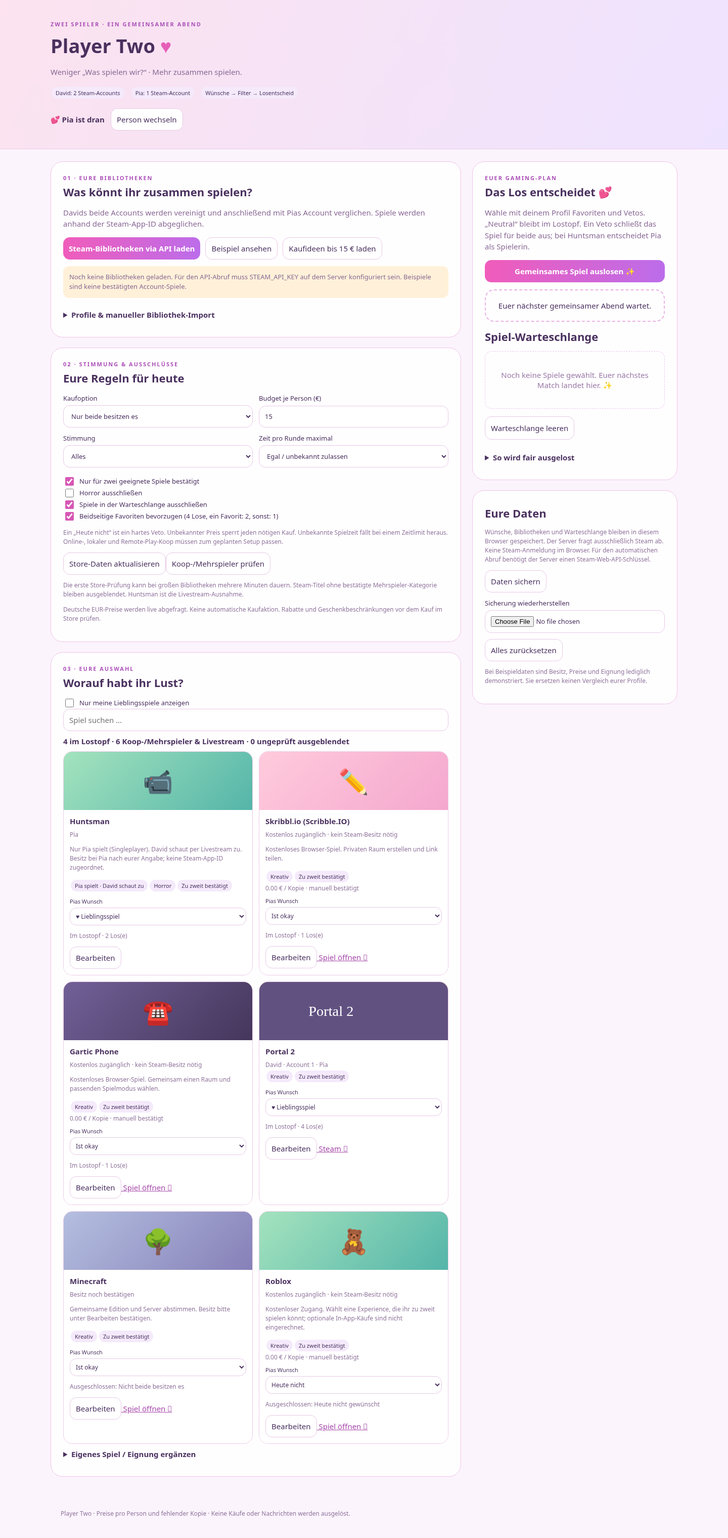
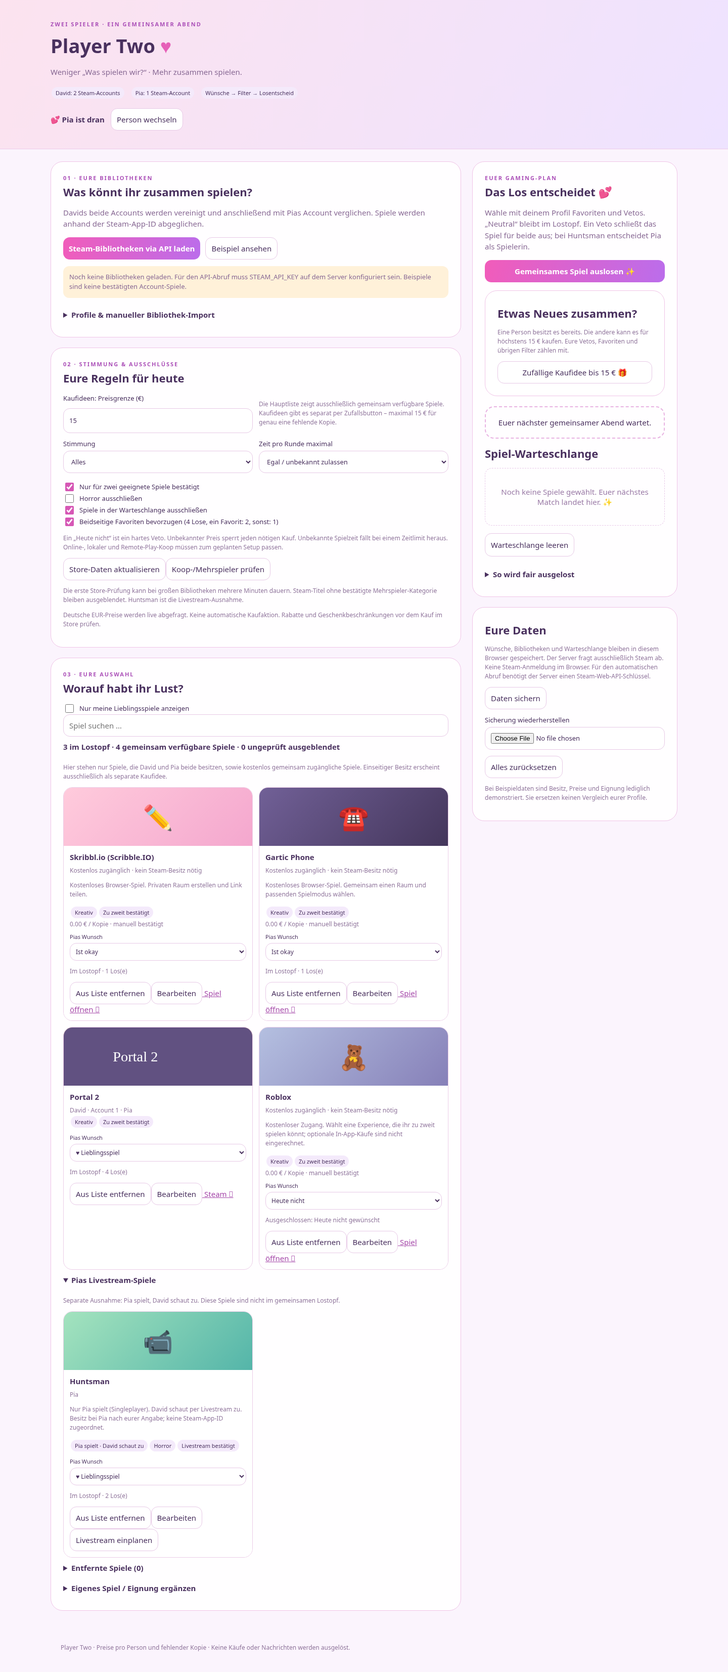
Show only shared games and add separate purchase randomizer capped at 15 EUR

Changed region(s): [[0.0625, 0.0, 0.625, 0.9688], [0.6562, 0.0938, 0.9375, 0.4688]]

diff --git a/steam-match/app.js b/steam-match/app.js
@@ -11,12 +11,12 @@ const extras=[
 ];
 function ensureExtras(){for(const extra of extras)if(!state.games.some(g=>g.id===extra.id))state.games.push({...extra,owners:[...extra.owners],votes:['neutral','neutral'],minutes:null,price:extra.price??null,priceSource:'manual'});}
 ensureExtras();
-function choosePerson(person){activePerson=person;$('activePerson').textContent=person==='pia'?'💕 Pia ist dran':'🎮 David ist dran';$('profileDialog').close();render();checkMultiplayer();}
+function choosePerson(person){activePerson=person;$('purchaseResult').replaceChildren();$('activePerson').textContent=person==='pia'?'💕 Pia ist dran':'🎮 David ist dran';$('profileDialog').close();render();checkMultiplayer();}
 $('choosePia').onclick=()=>choosePerson('pia');$('chooseDavid').onclick=()=>choosePerson('david');$('switchPerson').onclick=()=>$('profileDialog').showModal();
 $('profileDialog').addEventListener('cancel',e=>{if(!activePerson)e.preventDefault();});
 function save(){try{localStorage.setItem(KEY,JSON.stringify(state));}catch{status('Browser-Speicherung nicht verfügbar. Bitte Daten sichern.');}}
 function status(s){$('status').textContent=s;}
-function filters(){return {buy:$('buy').value,budget:Math.max(0,Number($('budget').value)||0),genre:$('genre').value,duration:Number($('duration').value),verified:$('verified').checked,horror:$('horror').checked,queueExclude:$('queueExclude').checked};}
+function filters(){return {buy:'owned',budget:Math.min(15,Math.max(0,Number($('budget').value)||0)),genre:$('genre').value,duration:Number($('duration').value),verified:$('verified').checked,horror:$('horror').checked,queueExclude:$('queueExclude').checked};}
 function node(tag,text,cls){const n=document.createElement(tag);if(text!=null)n.textContent=text;if(cls)n.className=cls;return n;}
 function demo(){state={games:[['413150','Stardew Valley','🌱','Gemütlich',['a','c'],14,60],['1966720','Lethal Company','👻','Horror',['b','c'],10,60],['1426210','It Takes Two','🧸','Action',['a'],40,90],['2881650','Content Warning','📹','Horror',['a','c'],8,45],['1211020','Wobbly Life','🌈','Gemütlich',['b'],15,45],['431960','Wallpaper Engine','🎨','Kreativ',['a','c'],4,15]].map(([id,name,emoji,genre,owners,price,minutes],i)=>({id,name,emoji,genre,owners,price,priceSource:'demo',minutes,confirmed:i!==5,multiplayer:i!==5,votes:['neutral','neutral']})),queue:[],loaded:{},demo:true};winner=null;save();render();status('BEISPIELMODUS · Besitz, Preise und Spielmodi sind keine Ergebnisse eures Profilvergleichs. Steam laden oder eigene Bibliotheken importieren, um echte Daten zu verwenden.');}
 function merge(account,games){if(state.demo){state={games:[],queue:[],loaded:{},demo:false};winner=null;}
@@ -34,26 +34,27 @@ $('import').onclick=()=>{try{merge($('account').value,parseLibrary($('importText
 $('importFile').onchange=async e=>{const file=e.target.files[0];if(file){if(file.size>8000000){status('Datei zu groß (maximal 8 MB).');return;}$('importText').value=await file.text();}};
 const colors=['linear-gradient(135deg,#a4e3be,#54b5a9)','linear-gradient(135deg,#ffcbdc,#f4a7ce)','linear-gradient(135deg,#716097,#44365b)','linear-gradient(135deg,#ffe49c,#ffbd81)','linear-gradient(135deg,#b4bfe0,#8680b8)'];
 function isPlayable(g){return !g.removed&&(g.mode==='stream'||(/^\d+$/.test(g.id)?g.multiplayer===true:g.confirmed===true));}
-function render(){const removed=state.games.filter(g=>g.removed);$('removedCount').textContent=`Entfernte Spiele (${removed.length})`;$('removedGames').replaceChildren();if(!removed.length)$('removedGames').append(node('p','Keine Spiele entfernt.','muted'));for(const g of removed){const row=node('div',null,'queueitem');row.append(node('span',g.name));const restore=node('button','Wiederherstellen');restore.setAttribute('aria-label',g.name+' wiederherstellen');restore.onclick=()=>{delete g.removed;save();render();};row.append(restore);$('removedGames').append(row);}const f=filters(),eligible=state.games.filter(isPlayable).filter(g=>!MatchCore.reasons(g,f,state.queue).length);$('count').textContent=`${eligible.length} im Lostopf · ${state.games.filter(isPlayable).length} Koop-/Mehrspieler & Livestream · ${state.games.filter(g=>!g.removed&&/^\d+$/.test(g.id)&&g.multiplayer==null).length} ungeprüft ausgeblendet`;const container=$('games');container.replaceChildren();const visible=state.games.filter(isPlayable).filter(g=>g.name.toLowerCase().includes($('search').value.toLowerCase())&&(!$('favoritesOnly').checked||g.votes?.[activePerson==='pia'?1:0]==='yes')).sort((a,b)=>Number(!!MatchCore.reasons(a,f,state.queue).length)-Number(!!MatchCore.reasons(b,f,state.queue).length));
+function render(){const removed=state.games.filter(g=>g.removed);$('removedCount').textContent=`Entfernte Spiele (${removed.length})`;$('removedGames').replaceChildren();if(!removed.length)$('removedGames').append(node('p','Keine Spiele entfernt.','muted'));for(const g of removed){const row=node('div',null,'queueitem');row.append(node('span',g.name));const restore=node('button','Wiederherstellen');restore.setAttribute('aria-label',g.name+' wiederherstellen');restore.onclick=()=>{delete g.removed;save();render();};row.append(restore);$('removedGames').append(row);}const f=filters(),eligible=state.games.filter(isPlayable).filter(MatchCore.jointlyOwned).filter(g=>g.mode!=='stream').filter(g=>!MatchCore.reasons(g,f,state.queue).length);$('count').textContent=`${eligible.length} im Lostopf · ${state.games.filter(isPlayable).filter(MatchCore.jointlyOwned).filter(g=>g.mode!=='stream').length} gemeinsam verfügbare Spiele · ${state.games.filter(g=>!g.removed&&/^\d+$/.test(g.id)&&g.multiplayer==null).length} ungeprüft ausgeblendet`;const container=$('games');container.replaceChildren();$('streamGames').replaceChildren();const visible=state.games.filter(isPlayable).filter(g=>g.mode==='stream'||MatchCore.jointlyOwned(g)).filter(g=>g.name.toLowerCase().includes($('search').value.toLowerCase())&&(!$('favoritesOnly').checked||g.votes?.[activePerson==='pia'?1:0]==='yes')).sort((a,b)=>Number(!!MatchCore.reasons(a,f,state.queue).length)-Number(!!MatchCore.reasons(b,f,state.queue).length));
 for(const [i,g]of visible.entries()){const reasons=MatchCore.reasons(g,f,state.queue),card=node('article',null,'card'),art=node('div',null,'art');art.append(node('span',g.emoji||'🎮','fallback'));art.style.setProperty('--art',colors[i%colors.length]);if(!state.demo&&/^\d+$/.test(g.id)){const img=new Image();img.src=`https://shared.fastly.steamstatic.com/store_item_assets/steam/apps/${g.id}/header.jpg`;img.alt='';img.loading='lazy';img.onerror=()=>img.remove();art.append(img);}card.append(art);const c=node('div',null,'content');c.append(node('h3',g.name));const ownerNames={a:'David · Account 1',b:'David · Account 2',c:'Pia'};c.append(node('div',g.access==='free'?'Kostenlos zugänglich · kein Steam-Besitz nötig':g.owners.length?g.owners.map(x=>ownerNames[x]).join(' · '):'Besitz noch bestätigen','muted'));if(g.note)c.append(node('p',g.note,'muted'));if(g.mode==='stream')c.append(node('span','Pia spielt · David schaut zu','badge'));c.append(node('span',g.genre||'Unbekannt','badge'));c.append(node('span',g.mode==='stream'?'Livestream bestätigt':g.confirmed?'Zu zweit bestätigt':'Eignung offen','badge'));if(g.price!=null)c.append(node('div',`${g.price.toFixed(2)} € / Kopie · ${g.priceSource==='demo'?'Beispielpreis':g.priceSource==='steam'?'Steam '+new Date(g.priceAt).toLocaleDateString('de-DE'):'manuell bestätigt'}`,'muted'));if(g.categories?.length)c.append(node('p','Store: '+g.categories.join(', '),'muted'));
 const votes=node('div',null,'votes');const index=activePerson==='pia'?1:0;
 if(g.mode==='stream'&&activePerson!=='pia'){votes.append(node('p','Pia wählt dieses Spiel. Du schaust per Livestream zu.','muted'));}
 else {const label=node('label',activePerson==='pia'?'Pias Wunsch':'Davids Wunsch'),select=node('select');select.setAttribute('aria-label',(activePerson==='pia'?'Pia':'David')+' · '+g.name);for(const [value,text]of [['neutral','Ist okay'],['yes','♥ Lieblingsspiel'],['no','Heute nicht']]){const o=node('option',text);o.value=value;select.append(o);}select.value=g.votes?.[index]||'neutral';select.disabled=!activePerson;select.onchange=()=>{g.votes??=['neutral','neutral'];g.votes[index]=select.value;save();render();};label.append(select);votes.append(label);}
 c.append(votes);c.append(node('p',reasons.length?'Ausgeschlossen: '+reasons.join(' · '):`Im Lostopf · ${MatchCore.weight(g,$('weight').checked)} Los(e)`,'muted'));
-const remove=node('button','Aus Liste entfernen');remove.setAttribute('aria-label',g.name+' aus Liste entfernen');remove.onclick=()=>{g.removed=true;state.queue=state.queue.filter(q=>q.id!==g.id);if(winner?.id===g.id){winner=null;$('winner').textContent='Spiel entfernt. Ihr könnt neu auslosen.';}if($('newName').dataset.edit===g.id){delete $('newName').dataset.edit;$('newName').value='';$('newId').value='';}save();render();};c.append(remove);const edit=node('button','Bearbeiten');edit.onclick=()=>{$('newName').value=g.name;$('newId').value=/^\d+$/.test(g.id)?g.id:'';$('newGenre').value=['Gemütlich','Horror','Action','Kreativ'].includes(g.genre)?g.genre:'Gemütlich';$('newTime').value=g.minutes??'';$('newPrice').value=g.priceSource==='demo'?'':g.price??'';$('ownA').checked=g.owners.includes('a');$('ownB').checked=g.owners.includes('b');$('ownC').checked=g.owners.includes('c');$('newCoop').checked=g.confirmed;$('newName').closest('details').open=true;$('newName').dataset.edit=g.id;$('newName').scrollIntoView({behavior:'smooth',block:'center'});};c.append(edit);if(g.url){const link=node('a',' Spiel öffnen ↗');link.href=g.url;link.target='_blank';link.rel='noreferrer';c.append(link);}if(/^\d+$/.test(g.id)){const a=node('a',' Steam ↗');a.href='https://store.steampowered.com/app/'+g.id+'/';a.target='_blank';a.rel='noreferrer';c.append(a);}card.append(c);container.append(card);}
+const remove=node('button','Aus Liste entfernen');remove.setAttribute('aria-label',g.name+' aus Liste entfernen');remove.onclick=()=>{g.removed=true;state.queue=state.queue.filter(q=>q.id!==g.id);if(winner?.id===g.id){winner=null;$('winner').textContent='Spiel entfernt. Ihr könnt neu auslosen.';}if($('newName').dataset.edit===g.id){delete $('newName').dataset.edit;$('newName').value='';$('newId').value='';}save();render();};c.append(remove);const edit=node('button','Bearbeiten');edit.onclick=()=>{$('newName').value=g.name;$('newId').value=/^\d+$/.test(g.id)?g.id:'';$('newGenre').value=['Gemütlich','Horror','Action','Kreativ'].includes(g.genre)?g.genre:'Gemütlich';$('newTime').value=g.minutes??'';$('newPrice').value=g.priceSource==='demo'?'':g.price??'';$('ownA').checked=g.owners.includes('a');$('ownB').checked=g.owners.includes('b');$('ownC').checked=g.owners.includes('c');$('newCoop').checked=g.confirmed;$('newName').closest('details').open=true;$('newName').dataset.edit=g.id;$('newName').scrollIntoView({behavior:'smooth',block:'center'});};c.append(edit);if(g.url){const link=node('a',' Spiel öffnen ↗');link.href=g.url;link.target='_blank';link.rel='noreferrer';c.append(link);}if(/^\d+$/.test(g.id)){const a=node('a',' Steam ↗');a.href='https://store.steampowered.com/app/'+g.id+'/';a.target='_blank';a.rel='noreferrer';c.append(a);}if(g.mode==='stream'&&activePerson==='pia'){const plan=node('button','Livestream einplanen');plan.disabled=!!reasons.length;plan.onclick=()=>{if(!state.queue.some(q=>q.id===g.id)){state.queue.push({id:g.id,name:g.name+' · Pia streamt'});save();render();}};c.append(plan);}card.append(c);(g.mode==='stream'?$('streamGames'):container).append(card);}
 if(!visible.length)container.append(node('p','Noch keine passenden Einträge. Bibliotheken laden, importieren oder ein Spiel ergänzen.'));$('draw').disabled=!eligible.length;const q=$('queue');q.replaceChildren();if(!state.queue.length)q.append(node('div','Noch keine Spiele gewählt. Euer nächstes Match landet hier. ✨','empty'));state.queue.forEach((g,i)=>{const row=node('div',null,'queueitem');row.append(node('span',`${i+1}. ${g.name}`));const b=node('button','×');b.setAttribute('aria-label',g.name+' aus Warteschlange entfernen');b.onclick=()=>{state.queue.splice(i,1);save();render();};row.append(b);q.append(row);});}
-$('draw').onclick=()=>{const f=filters(),pool=state.games.filter(isPlayable).filter(g=>!MatchCore.reasons(g,f,state.queue).length);winner=MatchCore.pick(pool,$('weight').checked,MatchCore.randomInt);const box=$('winner');box.replaceChildren();if(!winner){box.textContent='Kein Spiel erfüllt eure Regeln. Prüft die Ausschlussgründe.';return;}box.append(node('span',state.demo?'BEISPIELAUSLOSUNG':'Euer nächstes Spiel'),node('strong',winner.name));const b=node('button','In die Warteschlange ♥','primary');b.onclick=()=>{if(!state.queue.some(g=>g.id===winner.id)){state.queue.push({id:winner.id,name:winner.name});save();render();}b.disabled=true;};box.append(b);};
+$('draw').onclick=()=>{const f=filters(),pool=state.games.filter(isPlayable).filter(MatchCore.jointlyOwned).filter(g=>g.mode!=='stream').filter(g=>!MatchCore.reasons(g,f,state.queue).length);winner=MatchCore.pick(pool,$('weight').checked,MatchCore.randomInt);const box=$('winner');box.replaceChildren();if(!winner){box.textContent='Kein Spiel erfüllt eure Regeln. Prüft die Ausschlussgründe.';return;}box.append(node('span',state.demo?'BEISPIELAUSLOSUNG':'Euer nächstes Spiel'),node('strong',winner.name));const b=node('button','In die Warteschlange ♥','primary');b.onclick=()=>{if(!state.queue.some(g=>g.id===winner.id)){state.queue.push({id:winner.id,name:winner.name});save();render();}b.disabled=true;};box.append(b);};
 $('add').onclick=()=>{const name=$('newName').value.trim(),raw=$('newId').value.trim();if(!name||raw&&!/^\d{1,10}$/.test(raw)){status('Name und gegebenenfalls gültige numerische Steam-App-ID eingeben.');return;}const minutes=$('newTime').value===''?null:Number($('newTime').value),price=$('newPrice').value===''?null:Number($('newPrice').value);if(minutes!==null&&(!Number.isFinite(minutes)||minutes<1)||price!==null&&(!Number.isFinite(price)||price<0)){status('Bitte gültige Zeit und Preis eingeben.');return;}const id=raw||$('newName').dataset.edit||'custom-'+crypto.randomUUID(),old=state.games.find(g=>g.id===id),g={...old,id,name,genre:$('newGenre').value,minutes,price,priceSource:'manual',confirmed:$('newCoop').checked,removed:false,owners:['a','b','c'].filter((_,i)=>$(['ownA','ownB','ownC'][i]).checked),votes:old?.votes||['neutral','neutral']};if(old)Object.assign(old,g);else state.games.push(g);delete $('newName').dataset.edit;$('newName').value='';$('newId').value='';save();render();status(state.demo?'Beispielmodus bleibt aktiv. Echte Bibliotheken importieren für einen echten Accountvergleich.':'Spiel gespeichert. Besitz, Eignung und Preis stammen aus eurer manuellen Angabe.');};
 $('prices').onclick=async()=>{if(state.demo){status('Store-Abgleich im Beispielmodus deaktiviert. Zuerst echte Bibliotheken importieren.');return;}const games=state.games.filter(g=>!g.removed&&/^\d+$/.test(g.id));if(!games.length){status('Keine Steam-App-IDs vorhanden.');return;}$('prices').disabled=true;let ok=0,failed=0;for(const g of games){try{const d=await api('/api/details?id='+g.id);g.price=d.price;g.priceSource='steam';g.priceAt=Date.now();g.categories=d.categories;g.multiplayer=d.multiplayer;ok++;}catch{failed++;}status(`Store-Abgleich: ${ok} erfolgreich, ${failed} fehlgeschlagen. Eignung bitte manuell anhand des konkreten Spielmodus bestätigen.`);save();render();await new Promise(r=>setTimeout(r,300));}$('prices').disabled=false;};
-for(const id of ['buy','budget','genre','duration','verified','horror','queueExclude','weight','search','favoritesOnly'])$(id).addEventListener('input',render);
+for(const id of ['budget','genre','duration','verified','horror','queueExclude','weight','search','favoritesOnly'])$(id).addEventListener('input',render);
 $('clearQueue').onclick=()=>{state.queue=[];save();render();};$('reset').onclick=()=>{if(confirm('Alle lokalen Bibliotheken, Wünsche und Warteschlange löschen?')){localStorage.removeItem(KEY);location.reload();}};
 $('export').onclick=()=>{const url=URL.createObjectURL(new Blob([JSON.stringify(state,null,2)],{type:'application/json'})),a=node('a');a.href=url;a.download='player-two-backup.json';a.click();setTimeout(()=>URL.revokeObjectURL(url),1000);};
 save();render();$('profileDialog').showModal();if(state.demo)status('BEISPIELMODUS · Kein bestätigter Vergleich eurer Steam-Accounts.');else if(Object.keys(state.loaded).length)summary();
 
 $('restore').onchange=async e=>{try{const f=e.target.files[0];if(!f)return;if(f.size>8000000)throw Error('Datei zu groß');const s=JSON.parse(await f.text());if(!Array.isArray(s.games)||!Array.isArray(s.queue)||!s.loaded||typeof s.loaded!=='object'||s.games.some(g=>typeof g.id!=='string'||typeof g.name!=='string'||(g.removed!==undefined&&typeof g.removed!=='boolean')||!Array.isArray(g.owners)||g.owners.some(o=>!['a','b','c'].includes(o))||!Array.isArray(g.votes)||g.votes.some(v=>!['neutral','yes','no'].includes(v))||g.price!=null&&(!Number.isFinite(g.price)||g.price<0))||s.queue.some(g=>typeof g.id!=='string'||typeof g.name!=='string'))throw Error('Ungültige Sicherung');if(!confirm('Aktuelle Daten durch diese Sicherung ersetzen?'))return;state=s;ensureExtras();winner=null;$('winner').textContent='Sicherung geladen. Neu auslosen, wenn ihr bereit seid.';save();render();if(state.demo)status('BEISPIELMODUS · Sicherung wiederhergestellt.');else summary();}catch(e){status('Wiederherstellen fehlgeschlagen: '+e.message);}};
 
-$('suggestions').onclick=async()=>{try{if(state.demo){status('Zuerst Beispielmodus über „Alles zurücksetzen“ verlassen oder eine echte Bibliothek importieren.');return;}const r=await fetch('suggestions.json');if(!r.ok)throw Error('Vorschläge nicht verfügbar');const suggestions=await r.json();for(const d of suggestions){if(state.games.some(g=>g.id===d.id))continue;state.games.push({id:d.id,name:d.name,genre:d.genre,minutes:null,owners:[],votes:['neutral','neutral'],confirmed:false,price:d.price,priceSource:'steam',priceAt:d.checkedAt,multiplayer:undefined,categories:d.categories.filter(c=>/Koop|Mehrspieler|Geteilter Bildschirm|Remote Play Together/.test(c))});}save();render();status('Echte Store-Kaufideen hinzugefügt (Preisstand siehe Karten). Besitz unbekannt; nicht als gemeinsame Bibliothek bestätigt. Für die Auslosung Kaufoption „Auch für beide neu kaufen“ wählen und Eignung für euren Spielmodus unter „Bearbeiten“ bestätigen. Zeiten sind unbekannt. Preise älter als 24 Stunden bitte aktualisieren.');}catch(e){status(e.message);}};
 
 let checkingModes=false;
 async function checkMultiplayer(){if(checkingModes||state.demo)return;const pending=state.games.filter(g=>!g.removed&&/^\d+$/.test(g.id)&&g.multiplayer==null);if(!pending.length)return;checkingModes=true;$('checkModes').disabled=true;let done=0,failed=0;for(const g of pending){try{const d=await api('/api/details?id='+g.id);g.multiplayer=d.multiplayer===true;g.categories=d.categories;g.price=d.price;g.priceSource='steam';g.priceAt=Date.now();}catch{failed++;}done++;save();$('modeStatus').textContent=`Mehrspieler-Prüfung: ${done}/${pending.length} · ${failed} nicht prüfbar. Ungeprüfte und reine Singleplayer bleiben ausgeblendet.`;if(done%10===0||done===pending.length){save();render();}await new Promise(r=>setTimeout(r,1600));}checkingModes=false;$('checkModes').disabled=false;}
 $('checkModes').onclick=checkMultiplayer;
+
+$('drawPurchase').onclick=async()=>{const button=$('drawPurchase'),box=$('purchaseResult');button.disabled=true;box.replaceChildren(node('p','Passende Kaufidee und aktuellen Preis prüfen …','muted'));try{const f=filters();let pool=state.games.filter(isPlayable).filter(g=>!MatchCore.purchaseReasons(g,f,state.queue).length);let selected=null;while(pool.length){const g=MatchCore.pick(pool,$('weight').checked,MatchCore.randomInt);pool=pool.filter(x=>x.id!==g.id);if(/^\d+$/.test(g.id)){try{const d=await api('/api/details?id='+g.id);g.price=d.price;g.priceSource='steam';g.priceAt=Date.now();g.multiplayer=d.multiplayer===true;g.categories=d.categories;}catch{continue;}}if(!MatchCore.purchaseReasons(g,filters(),state.queue).length){selected=g;break;}}save();render();box.replaceChildren();if(!selected){box.append(node('p','Keine passende Kaufidee gefunden. Nötig: genau eine Person besitzt das Spiel, bestätigter Mehrspielermodus, Preis bis zur Grenze, keine Vetos. Ungeprüfte Spiele oder unbekannte Preise zuerst über die Store-Prüfung aktualisieren.','muted'));return;}const g=selected,buyer=g.owners.includes('c')?'David':'Pia';box.append(node('h3',g.name),node('p',`${buyer} fehlt die Kopie · ${g.price.toFixed(2)} €`),node('p',`Pias Wunsch: ${g.votes?.[1]==='yes'?'Lieblingsspiel':'Ist okay'} · Davids Wunsch: ${g.votes?.[0]==='yes'?'Lieblingsspiel':'Ist okay'}`,'muted'));if(/^\d+$/.test(g.id)){const link=node('a','Im Steam-Store ansehen ↗');link.href='https://store.steampowered.com/app/'+g.id+'/';link.target='_blank';link.rel='noreferrer';box.append(link);}const wishes=node('label',activePerson==='pia'?'Pias Wunsch zu dieser Kaufidee':'Davids Wunsch zu dieser Kaufidee'),select=node('select');for(const [v,t]of [['neutral','Ist okay'],['yes','♥ Lieblingsspiel'],['no','Heute nicht']]){const o=node('option',t);o.value=v;select.append(o);}const index=activePerson==='pia'?1:0;select.value=g.votes?.[index]||'neutral';select.onchange=()=>{g.votes??=['neutral','neutral'];g.votes[index]=select.value;save();render();};wishes.append(select);box.append(wishes);const remove=node('button','Kaufidee aus Liste entfernen');remove.onclick=()=>{g.removed=true;save();render();box.replaceChildren(node('p','Kaufidee entfernt.','muted'));};box.append(remove);box.append(node('p',g.confirmed?'Zwei-Personen-Eignung wurde von euch bestätigt.':'Store bestätigt Mehrspieler. Mindestspielerzahl, Spielmodus und Plattformen bitte vor dem Kauf prüfen.','muted'));box.append(node('p','Separate Kaufidee: Das Spiel wird erst nach bestätigtem Besitz bei beiden in die Hauptliste aufgenommen.','muted'));}finally{button.disabled=false;}};

diff --git a/steam-match/index.html b/steam-match/index.html
@@ -5,8 +5,8 @@
 .art{overflow:hidden;isolation:isolate}.art img{position:absolute;inset:0;display:block;width:100%;height:100%;object-fit:cover;z-index:1}.art .fallback{position:absolute;inset:0;display:grid;place-items:center}.card{min-width:0}.content{position:relative;background:white}.votes{grid-template-columns:1fr}.identity{display:flex;gap:12px;align-items:center;flex-wrap:wrap;margin-top:16px}.profile-dialog{border:1px solid #edc3e5;border-radius:24px;padding:32px;max-width:480px;width:calc(100% - 32px);color:#49305e}.profile-dialog::backdrop{background:#37214399;backdrop-filter:blur(6px)}.profile-dialog button{flex:1}.profile-dialog h2{font-size:28px}.profile-dialog p{line-height:1.6}
 </style>
 <header><small>Zwei Spieler · Ein gemeinsamer Abend</small><h1>Player Two <span style="color:#e660b8">♥</span></h1><p>Weniger „Was spielen wir?“ · Mehr zusammen spielen.</p><div class="row"><span class="badge">David: 2 Steam-Accounts</span><span class="badge">Pia: 1 Steam-Account</span><span class="badge">Wünsche → Filter → Losentscheid</span></div><div class="identity"><strong id="activePerson">Profil auswählen</strong><button id="switchPerson">Person wechseln</button></div></header>
-<dialog id="profileDialog" class="profile-dialog" aria-labelledby="profileTitle"><div class="eyebrow">Euer Spieleabend</div><h2 id="profileTitle">Wer ist gerade da?</h2><p>Wähle dein Profil, um deine Lieblingsspiele und deine Wünsche für heute festzulegen.</p><div class="row"><button class="primary" id="choosePia">Ich bin Pia 💕</button><button class="primary" id="chooseDavid">Ich bin David 🎮</button></div><p class="muted">Die Auswahl gilt für diesen Seitenaufruf. Favoriten bleiben getrennt nach Person in diesem Browser gespeichert.</p></dialog><main><section><div class="panel"><div class="eyebrow">01 · Eure Bibliotheken</div><h2>Was könnt ihr zusammen spielen?</h2><p>Davids beide Accounts werden vereinigt und anschließend mit Pias Account verglichen. Spiele werden anhand der Steam-App-ID abgeglichen.</p><div class="row"><button class="primary" id="sync">Steam-Bibliotheken via API laden</button><button id="demo">Beispiel ansehen</button><button id="suggestions">Kaufideen bis 15 € laden</button></div><p id="status" role="status" class="notice">Noch keine Bibliotheken geladen. Für den API-Abruf muss STEAM_API_KEY auf dem Server konfiguriert sein. Beispiele sind keine bestätigten Account-Spiele.</p><details><summary>Profile & manueller Bibliothek-Import</summary><p class="muted">Steam: Profil → Profil bearbeiten → Privatsphäre → Profil und Spieldetails öffentlich. Alternativ je Account Steam-XML, JSON (Steam-API-Antwort oder Liste mit appid/name) oder Zeilen im Format App-ID;Spielname importieren. Dateien bleiben lokal im Browser.</p><label>Account<select id="account"><option value="a">David · OneMenShot1 (76561198925829155)</option><option value="b">David · 18945315 (76561198078956373)</option><option value="c">Pia · 76561198350287430</option></select></label><p class="row"><a href="https://steamcommunity.com/id/OneMenShot1/games/?tab=all" target="_blank" rel="noreferrer">Davids Profil 1 ↗</a><a href="https://steamcommunity.com/id/18945315/games/?tab=all" target="_blank" rel="noreferrer">Davids Profil 2 ↗</a><a href="https://steamcommunity.com/profiles/76561198350287430/games/?tab=all" target="_blank" rel="noreferrer">Pias Profil ↗</a></p><textarea id="importText" placeholder="413150;Stardew Valley&#10;1966720;Lethal Company"></textarea><div class="row"><input type="file" id="importFile" accept=".json,.xml,.csv,.txt"><button id="import">Importieren</button></div></details></div>
-<div class="panel"><div class="eyebrow">02 · Stimmung & Ausschlüsse</div><h2>Eure Regeln für heute</h2><div class="filters"><label>Kaufoption<select id="buy"><option value="owned">Nur beide besitzen es</option><option value="one">Ein fehlendes Exemplar zukaufen</option><option value="both">Auch für beide neu kaufen</option></select></label><label>Budget je Person (€)<input id="budget" type="number" min="0" max="100" value="15" step="0.5"></label><label>Stimmung<select id="genre"><option value="all">Alles</option><option>Gemütlich</option><option>Horror</option><option>Action</option><option>Kreativ</option></select></label><label>Zeit pro Runde maximal<select id="duration"><option value="999">Egal / unbekannt zulassen</option><option value="30">30 Minuten</option><option value="60">60 Minuten</option><option value="120">120 Minuten</option></select></label></div><label class="check"><input type="checkbox" id="verified" checked>Nur für zwei geeignete Spiele bestätigt</label><label class="check"><input type="checkbox" id="horror">Horror ausschließen</label><label class="check"><input type="checkbox" id="queueExclude" checked>Spiele in der Warteschlange ausschließen</label><label class="check"><input type="checkbox" id="weight" checked>Beidseitige Favoriten bevorzugen (4 Lose, ein Favorit: 2, sonst: 1)</label><p class="muted">Ein „Heute nicht“ ist ein hartes Veto. Unbekannter Preis sperrt jeden nötigen Kauf. Unbekannte Spielzeit fällt bei einem Zeitlimit heraus. Online-, lokaler und Remote-Play-Koop müssen zum geplanten Setup passen.</p><button id="prices">Store-Daten aktualisieren</button><button id="checkModes">Koop-/Mehrspieler prüfen</button><p id="modeStatus" class="muted" role="status">Die erste Store-Prüfung kann bei großen Bibliotheken mehrere Minuten dauern. Steam-Titel ohne bestätigte Mehrspieler-Kategorie bleiben ausgeblendet. Huntsman ist die Livestream-Ausnahme.</p><p class="muted">Deutsche EUR-Preise werden live abgefragt. Keine automatische Kaufaktion. Rabatte und Geschenkbeschränkungen vor dem Kauf im Store prüfen.</p></div>
-<div class="panel"><div class="eyebrow">03 · Eure Auswahl</div><h2>Worauf habt ihr Lust?</h2><label class="check"><input type="checkbox" id="favoritesOnly">Nur meine Lieblingsspiele anzeigen</label><input class="wide" id="search" placeholder="Spiel suchen …" aria-label="Spiel suchen"><div class="result-count" id="count"></div><div class="grid" id="games"></div><details><summary id="removedCount">Entfernte Spiele (0)</summary><p class="muted">Für beide Profile in diesem Browser entfernt, auch nach erneutem Steam-Import. Die Spiele bleiben in eurer Steam-Bibliothek. Hier könnt ihr sie zurückholen.</p><div id="removedGames"></div></details><details><summary>Eigenes Spiel / Eignung ergänzen</summary><p class="muted">Besitz nur markieren, wenn bestätigt. „Zu zweit geeignet“ ist eure manuelle Bestätigung für euren Spielmodus. Store-Koop-Tags allein bestätigen das nicht.</p><div class="filters"><label>Name<input id="newName" placeholder="z. B. It Takes Two"></label><label>Steam-App-ID (optional)<input id="newId" inputmode="numeric"></label><label>Stimmung<select id="newGenre"><option>Gemütlich</option><option>Horror</option><option>Action</option><option>Kreativ</option></select></label><label>Minuten pro Runde<input id="newTime" type="number" min="1" placeholder="Unbekannt"></label><label>EUR pro fehlender Kopie<input id="newPrice" type="number" min="0" step="0.01" placeholder="Unbekannt"></label></div><div class="row"><label class="check"><input id="ownA" type="checkbox">Dein Account 1</label><label class="check"><input id="ownB" type="checkbox">Dein Account 2</label><label class="check"><input id="ownC" type="checkbox">Ihr Account</label><label class="check"><input id="newCoop" type="checkbox">Zu zweit geeignet</label></div><p><button id="add">Hinzufügen / vorhandene App-ID ergänzen</button></p></details></div></section>
-<aside><div class="panel"><div class="eyebrow">Euer Gaming-Plan</div><h2>Das Los entscheidet 💕</h2><p>Wähle mit deinem Profil Favoriten und Vetos. „Neutral“ bleibt im Lostopf. Ein Veto schließt das Spiel für beide aus; bei Huntsman entscheidet Pia als Spielerin.</p><button class="primary wide" id="draw">Gemeinsames Spiel auslosen ✨</button><div id="winner" aria-live="polite">Euer nächster gemeinsamer Abend wartet.</div><h2>Spiel-Warteschlange</h2><div id="queue"></div><p><button id="clearQueue">Warteschlange leeren</button></p><details><summary>So wird fair ausgelost</summary><p class="muted">Zuerst greifen Besitz, Budget, Eignung, Zeit, Stimmung, Warteschlange und beide Vetos. Nur zulässige Spiele erhalten Lose. Aus diesen wird kryptografisch zufällig gewählt; Favoriten erhöhen auf Wunsch das Gewicht. Die Vorschau zeigt alle Ausschlussgründe. Es gibt keinen garantierten Gewinner, wenn kein Spiel passt.</p></details></div><div class="panel"><h2>Eure Daten</h2><p class="muted">Wünsche, Bibliotheken und Warteschlange bleiben in diesem Browser gespeichert. Der Server fragt ausschließlich Steam ab. Keine Steam-Anmeldung im Browser. Für den automatischen Abruf benötigt der Server einen Steam-Web-API-Schlüssel.</p><button id="export">Daten sichern</button><label style="margin:12px 0">Sicherung wiederherstellen<input type="file" id="restore" accept=".json"></label><button id="reset">Alles zurücksetzen</button><p class="muted">Bei Beispieldaten sind Besitz, Preise und Eignung lediglich demonstriert. Sie ersetzen keinen Vergleich eurer Profile.</p></div></aside></main><footer>Player Two · Preise pro Person und fehlender Kopie · Keine Käufe oder Nachrichten werden ausgelöst.</footer>
+<dialog id="profileDialog" class="profile-dialog" aria-labelledby="profileTitle"><div class="eyebrow">Euer Spieleabend</div><h2 id="profileTitle">Wer ist gerade da?</h2><p>Wähle dein Profil, um deine Lieblingsspiele und deine Wünsche für heute festzulegen.</p><div class="row"><button class="primary" id="choosePia">Ich bin Pia 💕</button><button class="primary" id="chooseDavid">Ich bin David 🎮</button></div><p class="muted">Die Auswahl gilt für diesen Seitenaufruf. Favoriten bleiben getrennt nach Person in diesem Browser gespeichert.</p></dialog><main><section><div class="panel"><div class="eyebrow">01 · Eure Bibliotheken</div><h2>Was könnt ihr zusammen spielen?</h2><p>Davids beide Accounts werden vereinigt und anschließend mit Pias Account verglichen. Spiele werden anhand der Steam-App-ID abgeglichen.</p><div class="row"><button class="primary" id="sync">Steam-Bibliotheken via API laden</button><button id="demo">Beispiel ansehen</button></div><p id="status" role="status" class="notice">Noch keine Bibliotheken geladen. Für den API-Abruf muss STEAM_API_KEY auf dem Server konfiguriert sein. Beispiele sind keine bestätigten Account-Spiele.</p><details><summary>Profile & manueller Bibliothek-Import</summary><p class="muted">Steam: Profil → Profil bearbeiten → Privatsphäre → Profil und Spieldetails öffentlich. Alternativ je Account Steam-XML, JSON (Steam-API-Antwort oder Liste mit appid/name) oder Zeilen im Format App-ID;Spielname importieren. Dateien bleiben lokal im Browser.</p><label>Account<select id="account"><option value="a">David · OneMenShot1 (76561198925829155)</option><option value="b">David · 18945315 (76561198078956373)</option><option value="c">Pia · 76561198350287430</option></select></label><p class="row"><a href="https://steamcommunity.com/id/OneMenShot1/games/?tab=all" target="_blank" rel="noreferrer">Davids Profil 1 ↗</a><a href="https://steamcommunity.com/id/18945315/games/?tab=all" target="_blank" rel="noreferrer">Davids Profil 2 ↗</a><a href="https://steamcommunity.com/profiles/76561198350287430/games/?tab=all" target="_blank" rel="noreferrer">Pias Profil ↗</a></p><textarea id="importText" placeholder="413150;Stardew Valley&#10;1966720;Lethal Company"></textarea><div class="row"><input type="file" id="importFile" accept=".json,.xml,.csv,.txt"><button id="import">Importieren</button></div></details></div>
+<div class="panel"><div class="eyebrow">02 · Stimmung & Ausschlüsse</div><h2>Eure Regeln für heute</h2><div class="filters"><label>Kaufideen: Preisgrenze (€)<input id="budget" type="number" min="0" max="15" value="15" step="0.5"></label><p class="muted">Die Hauptliste zeigt ausschließlich gemeinsam verfügbare Spiele. Kaufideen gibt es separat per Zufallsbutton – maximal 15 € für genau eine fehlende Kopie.</p><label>Stimmung<select id="genre"><option value="all">Alles</option><option>Gemütlich</option><option>Horror</option><option>Action</option><option>Kreativ</option></select></label><label>Zeit pro Runde maximal<select id="duration"><option value="999">Egal / unbekannt zulassen</option><option value="30">30 Minuten</option><option value="60">60 Minuten</option><option value="120">120 Minuten</option></select></label></div><label class="check"><input type="checkbox" id="verified" checked>Nur für zwei geeignete Spiele bestätigt</label><label class="check"><input type="checkbox" id="horror">Horror ausschließen</label><label class="check"><input type="checkbox" id="queueExclude" checked>Spiele in der Warteschlange ausschließen</label><label class="check"><input type="checkbox" id="weight" checked>Beidseitige Favoriten bevorzugen (4 Lose, ein Favorit: 2, sonst: 1)</label><p class="muted">Ein „Heute nicht“ ist ein hartes Veto. Unbekannter Preis sperrt jeden nötigen Kauf. Unbekannte Spielzeit fällt bei einem Zeitlimit heraus. Online-, lokaler und Remote-Play-Koop müssen zum geplanten Setup passen.</p><button id="prices">Store-Daten aktualisieren</button><button id="checkModes">Koop-/Mehrspieler prüfen</button><p id="modeStatus" class="muted" role="status">Die erste Store-Prüfung kann bei großen Bibliotheken mehrere Minuten dauern. Steam-Titel ohne bestätigte Mehrspieler-Kategorie bleiben ausgeblendet. Huntsman ist die Livestream-Ausnahme.</p><p class="muted">Deutsche EUR-Preise werden live abgefragt. Keine automatische Kaufaktion. Rabatte und Geschenkbeschränkungen vor dem Kauf im Store prüfen.</p></div>
+<div class="panel"><div class="eyebrow">03 · Eure Auswahl</div><h2>Worauf habt ihr Lust?</h2><label class="check"><input type="checkbox" id="favoritesOnly">Nur meine Lieblingsspiele anzeigen</label><input class="wide" id="search" placeholder="Spiel suchen …" aria-label="Spiel suchen"><div class="result-count" id="count"></div><p class="muted">Hier stehen nur Spiele, die David und Pia beide besitzen, sowie kostenlos gemeinsam zugängliche Spiele. Einseitiger Besitz erscheint ausschließlich als separate Kaufidee.</p><div class="grid" id="games"></div><details><summary>Pias Livestream-Spiele</summary><p class="muted">Separate Ausnahme: Pia spielt, David schaut zu. Diese Spiele sind nicht im gemeinsamen Lostopf.</p><div class="grid" id="streamGames"></div></details><details><summary id="removedCount">Entfernte Spiele (0)</summary><p class="muted">Für beide Profile in diesem Browser entfernt, auch nach erneutem Steam-Import. Die Spiele bleiben in eurer Steam-Bibliothek. Hier könnt ihr sie zurückholen.</p><div id="removedGames"></div></details><details><summary>Eigenes Spiel / Eignung ergänzen</summary><p class="muted">Besitz nur markieren, wenn bestätigt. „Zu zweit geeignet“ ist eure manuelle Bestätigung für euren Spielmodus. Store-Koop-Tags allein bestätigen das nicht.</p><div class="filters"><label>Name<input id="newName" placeholder="z. B. It Takes Two"></label><label>Steam-App-ID (optional)<input id="newId" inputmode="numeric"></label><label>Stimmung<select id="newGenre"><option>Gemütlich</option><option>Horror</option><option>Action</option><option>Kreativ</option></select></label><label>Minuten pro Runde<input id="newTime" type="number" min="1" placeholder="Unbekannt"></label><label>EUR pro fehlender Kopie<input id="newPrice" type="number" min="0" step="0.01" placeholder="Unbekannt"></label></div><div class="row"><label class="check"><input id="ownA" type="checkbox">Dein Account 1</label><label class="check"><input id="ownB" type="checkbox">Dein Account 2</label><label class="check"><input id="ownC" type="checkbox">Ihr Account</label><label class="check"><input id="newCoop" type="checkbox">Zu zweit geeignet</label></div><p><button id="add">Hinzufügen / vorhandene App-ID ergänzen</button></p></details></div></section>
+<aside><div class="panel"><div class="eyebrow">Euer Gaming-Plan</div><h2>Das Los entscheidet 💕</h2><p>Wähle mit deinem Profil Favoriten und Vetos. „Neutral“ bleibt im Lostopf. Ein Veto schließt das Spiel für beide aus; bei Huntsman entscheidet Pia als Spielerin.</p><button class="primary wide" id="draw">Gemeinsames Spiel auslosen ✨</button><div class="panel" style="margin-top:16px"><h2>Etwas Neues zusammen?</h2><p class="muted">Eine Person besitzt es bereits. Die andere kann es für höchstens 15 € kaufen. Eure Vetos, Favoriten und übrigen Filter zählen mit.</p><button class="wide" id="drawPurchase">Zufällige Kaufidee bis 15 € 🎁</button><div id="purchaseResult" aria-live="polite"></div></div><div id="winner" aria-live="polite">Euer nächster gemeinsamer Abend wartet.</div><h2>Spiel-Warteschlange</h2><div id="queue"></div><p><button id="clearQueue">Warteschlange leeren</button></p><details><summary>So wird fair ausgelost</summary><p class="muted">Zuerst greifen Besitz, Budget, Eignung, Zeit, Stimmung, Warteschlange und beide Vetos. Nur zulässige Spiele erhalten Lose. Aus diesen wird kryptografisch zufällig gewählt; Favoriten erhöhen auf Wunsch das Gewicht. Die Vorschau zeigt alle Ausschlussgründe. Es gibt keinen garantierten Gewinner, wenn kein Spiel passt.</p></details></div><div class="panel"><h2>Eure Daten</h2><p class="muted">Wünsche, Bibliotheken und Warteschlange bleiben in diesem Browser gespeichert. Der Server fragt ausschließlich Steam ab. Keine Steam-Anmeldung im Browser. Für den automatischen Abruf benötigt der Server einen Steam-Web-API-Schlüssel.</p><button id="export">Daten sichern</button><label style="margin:12px 0">Sicherung wiederherstellen<input type="file" id="restore" accept=".json"></label><button id="reset">Alles zurücksetzen</button><p class="muted">Bei Beispieldaten sind Besitz, Preise und Eignung lediglich demonstriert. Sie ersetzen keinen Vergleich eurer Profile.</p></div></aside></main><footer>Player Two · Preise pro Person und fehlender Kopie · Keine Käufe oder Nachrichten werden ausgelöst.</footer>
 <script src="core.js"></script><script src="app.js"></script></html>

diff --git a/steam-match/core.js b/steam-match/core.js
@@ -1,7 +1,9 @@
 (function(root){
 function reasons(g,f,queue){const r=[];if(g.removed)r.push('Aus Liste entfernt');if(g.mode!=='stream'&&/^\d+$/.test(g.id)&&g.multiplayer!==true)r.push('Kein bestätigtes Koop-/Mehrspielerspiel');const mine=g.owners.includes('a')||g.owners.includes('b'),hers=g.owners.includes('c');const missing=g.mode==='stream'?Number(!hers):Number(!mine)+Number(!hers);if(f.buy==='owned'&&missing)r.push('Nicht beide besitzen es');if(f.buy==='one'&&missing>1)r.push('Beide müssten kaufen');if(missing&&f.buy!=='owned'){if(g.price==null||g.priceSource==='demo'||g.priceSource==='steam'&&Date.now()-g.priceAt>86400000)r.push('Kaufpreis unbekannt / veraltet');else if(g.price>f.budget)r.push('Über Budget pro Person');}if(f.verified&&!g.confirmed)r.push('Eignung zu zweit unbestätigt');if(f.horror&&g.genre==='Horror')r.push('Horror ausgeschlossen');if(f.genre!=='all'&&g.genre!==f.genre)r.push('Andere Stimmung');if(f.duration<999&&(g.minutes==null||g.minutes>f.duration))r.push('Spielzeit zu lang / unbekannt');if((g.mode==='stream'?[g.votes?.[1]]:(g.votes||[])).includes('no'))r.push('Heute nicht gewünscht');if(f.queueExclude&&queue.some(q=>q.id===g.id))r.push('Bereits in Warteschlange');return r;}
+function jointlyOwned(g){return (g.owners.includes('a')||g.owners.includes('b'))&&g.owners.includes('c');}
+function purchaseReasons(g,f,queue){const r=reasons(g,{...f,buy:'one',budget:Math.min(15,f.budget),verified:false},queue);const mine=g.owners.includes('a')||g.owners.includes('b'),hers=g.owners.includes('c');if(mine===hers)r.push('Genau eine Person muss das Spiel besitzen');if(g.mode==='stream')r.push('Livestream ist keine gemeinsame Kaufidee');return r;}
 function weight(g,weighted){return weighted?2**(g.mode==='stream'?[g.votes?.[1]]:(g.votes||[])).filter(v=>v==='yes').length:1;}
 function pick(games,weighted,randomInt){if(!games.length)return null;const total=games.reduce((n,g)=>n+weight(g,weighted),0);let x=randomInt(total);for(const g of games){x-=weight(g,weighted);if(x<0)return g;}throw Error('Invalid random value');}
 function randomInt(max){const limit=Math.floor(4294967296/max)*max;let n;do{n=crypto.getRandomValues(new Uint32Array(1))[0];}while(n>=limit);return n%max;}
-root.MatchCore={reasons,weight,pick,randomInt};if(typeof module!=='undefined')module.exports=root.MatchCore;
+root.MatchCore={reasons,weight,pick,randomInt,jointlyOwned,purchaseReasons};if(typeof module!=='undefined')module.exports=root.MatchCore;
 })(globalThis);

diff --git a/steam-match/browser_check.py b/steam-match/browser_check.py
@@ -16,8 +16,9 @@ try:
         page.goto('http://127.0.0.1:' + str(http.server_port))
         assert page.locator('#profileDialog').is_visible()
         page.locator('#chooseDavid').click()
-        assert page.locator('.card').count() == 5
-        assert page.get_by_role('heading', name='Huntsman', exact=True).count() == 1
+        assert page.locator('.card').count() == 4
+        assert page.locator('#streamGames h3').filter(has_text='Huntsman').count() == 1
+        assert not page.locator('#games h3').filter(has_text='Huntsman').count()
         assert page.get_by_label('David · Huntsman', exact=True).count() == 0
         page.get_by_label('David · Roblox', exact=True).select_option('yes')
         page.locator('#favoritesOnly').check()
@@ -26,6 +27,7 @@ try:
         page.locator('#choosePia').click()
         assert page.locator('.card').count() == 0 # David's favorite isn't Pia's
         page.locator('#favoritesOnly').uncheck()
+        page.locator('#streamGames').evaluate('el=>el.parentElement.open=true')
         page.get_by_label('Pia · Huntsman', exact=True).select_option('yes')
         page.get_by_label('Pia · Roblox', exact=True).select_option('no')
         roblox = page.locator('.card').filter(has=page.get_by_role('heading', name='Roblox', exact=True))
@@ -34,6 +36,7 @@ try:
         page.reload()
         assert page.locator('#profileDialog').is_visible()
         page.locator('#choosePia').click()
+        page.locator('#streamGames').evaluate('el=>el.parentElement.open=true')
         assert page.get_by_label('Pia · Huntsman', exact=True).input_value() == 'yes'
         assert page.get_by_label('Pia · Roblox', exact=True).input_value() == 'no'
         assert page.get_by_role('heading', name='Hackhub Test Singleplayer', exact=True).count() == 0
@@ -51,6 +54,17 @@ try:
                     assert ir['y'] >= rect['y'] and ir['y'] + ir['height'] <= rect['y'] + rect['height'] + 1
             assert page.evaluate('document.documentElement.scrollWidth <= innerWidth')
             page.screenshot(path=str(Path(__file__).parent / ('desktop.png' if width == 1440 else 'mobile.png')), full_page=True)
+        page.evaluate("""() => {const s=JSON.parse(localStorage.getItem('player-two-v1'));s.games.push({id:'12345',name:'Only David owns',owners:['a'],confirmed:false,multiplayer:true,votes:['yes','neutral'],genre:'Kreativ',price:15,priceSource:'manual'});localStorage.setItem('player-two-v1',JSON.stringify(s));}""")
+        page.route('**/api/details?id=12345',lambda r:r.fulfill(content_type='application/json',body='{"price":15,"multiplayer":true,"categories":["Mehrspieler"]}'))
+        page.reload();page.locator('#chooseDavid').click()
+        assert page.get_by_role('heading',name='Only David owns',exact=True).count()==0
+        page.locator('#drawPurchase').click()
+        page.wait_for_function('document.querySelector("#purchaseResult").textContent.includes("Pia fehlt die Kopie")')
+        assert '15.00 €' in page.locator('#purchaseResult').inner_text()
+        assert page.locator('#games').get_by_role('heading',name='Only David owns',exact=True).count()==0
+        page.locator('#purchaseResult select').select_option('no')
+        page.locator('#drawPurchase').click()
+        page.wait_for_function('document.querySelector("#purchaseResult").textContent.includes("Keine passende Kaufidee")')
         page.locator('#draw').click()
         page.get_by_role('button', name='In die Warteschlange').click()
         assert page.locator('.queueitem').count() == 1
